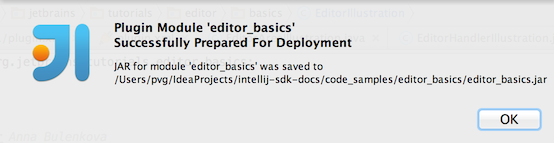
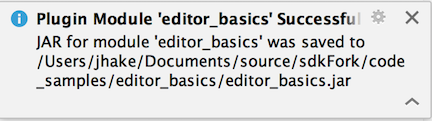
Refreshed deployment page to use install plugin from disk, clarified intellij platform plugin project.

Changed region(s): [[0.0, 0.0, 1.0, 1.0]]

diff --git a/basics/getting_started/deploying_plugin.md b/basics/getting_started/deploying_plugin.md
@@ -6,8 +6,8 @@ Before your custom plugin can be used, it must be deployed: built, installed, an
 
 To deploy a plugin:
 
-* Make your project by invoking **Build \| Make Project**.
-* Prepare your plugin for deployment. In the main menu, select **Build \| Prepare Plugin Module '\<module name\>' for Deployment**.
+* Make your project by invoking **Build \| Build Project** or **Build \| Build Module \<module name\>**.
+* Prepare your plugin for deployment. In the main menu, select **Build \| Prepare Plugin Module \<module name\> for Deployment**.
 
   ![Prepare Plugin for Deployment](deploying_plugin/img/prepare_plugin_for_deployment.png)
 
@@ -15,13 +15,10 @@ To deploy a plugin:
 
   ![Jar Saved Notification](deploying_plugin/img/jar_saved_notification.png)
 
-* Copy the newly created archive file to the `.IntelliJIDEAx0\config\plugins` folder, and then restart your IDE so the changes may take effect.  To know how to locate your *plugins* directory,
-  refer to [IDE Settings, Caches, Logs, and Plugins](https://intellij-support.jetbrains.com/hc/en-us/articles/206544519-Directories-used-by-the-IDE-to-store-settings-caches-plugins-and-logs).
+* [Install](https://www.jetbrains.com/help/idea/managing-plugins.html#installing-plugins-from-disk)
+  the newly created archive/jar file from disk. The `editor_basics` code sample builds the plugin archive/jar into the `editor_basics` project folder:
 
   ![Jar File Location](deploying_plugin/img/jar_location.png)
 
-* In the main menu, select **File \| Settings** to open the Settings dialog box.
-* In the Settings dialog box, under **IDE Settings**, click **Plugins**.
-* In the Plugins area, open the **Installed** tab, and then select the check-box next to your plugin name.
-* When finished, click OK to close the Settings dialog box.
-* Restart the IDE so that your changes take effect.
+* Restart your IDE so the changes will take effect.
+

diff --git a/basics/getting_started/creating_plugin_project.md b/basics/getting_started/creating_plugin_project.md
@@ -5,7 +5,7 @@ title: Creating a Plugin Project
 This section explains how you can create a new plugin project from scratch using the New Project wizard.  Optionally, you can import an existing project or import a project from external models. You can also add a new plugin module to an existing *IntelliJ Platform* project.
 For more information, refer to the [IntelliJ IDEA Web Help](https://www.jetbrains.com/idea/help/new-project-wizard.html).
 
-### To Create an IntelliJ Platform Project:
+### To Create an IntelliJ Platform Plugin Project:
 
 *  On the main menu, choose **File \| New \| Project**. The *New Project*
    wizard starts.
